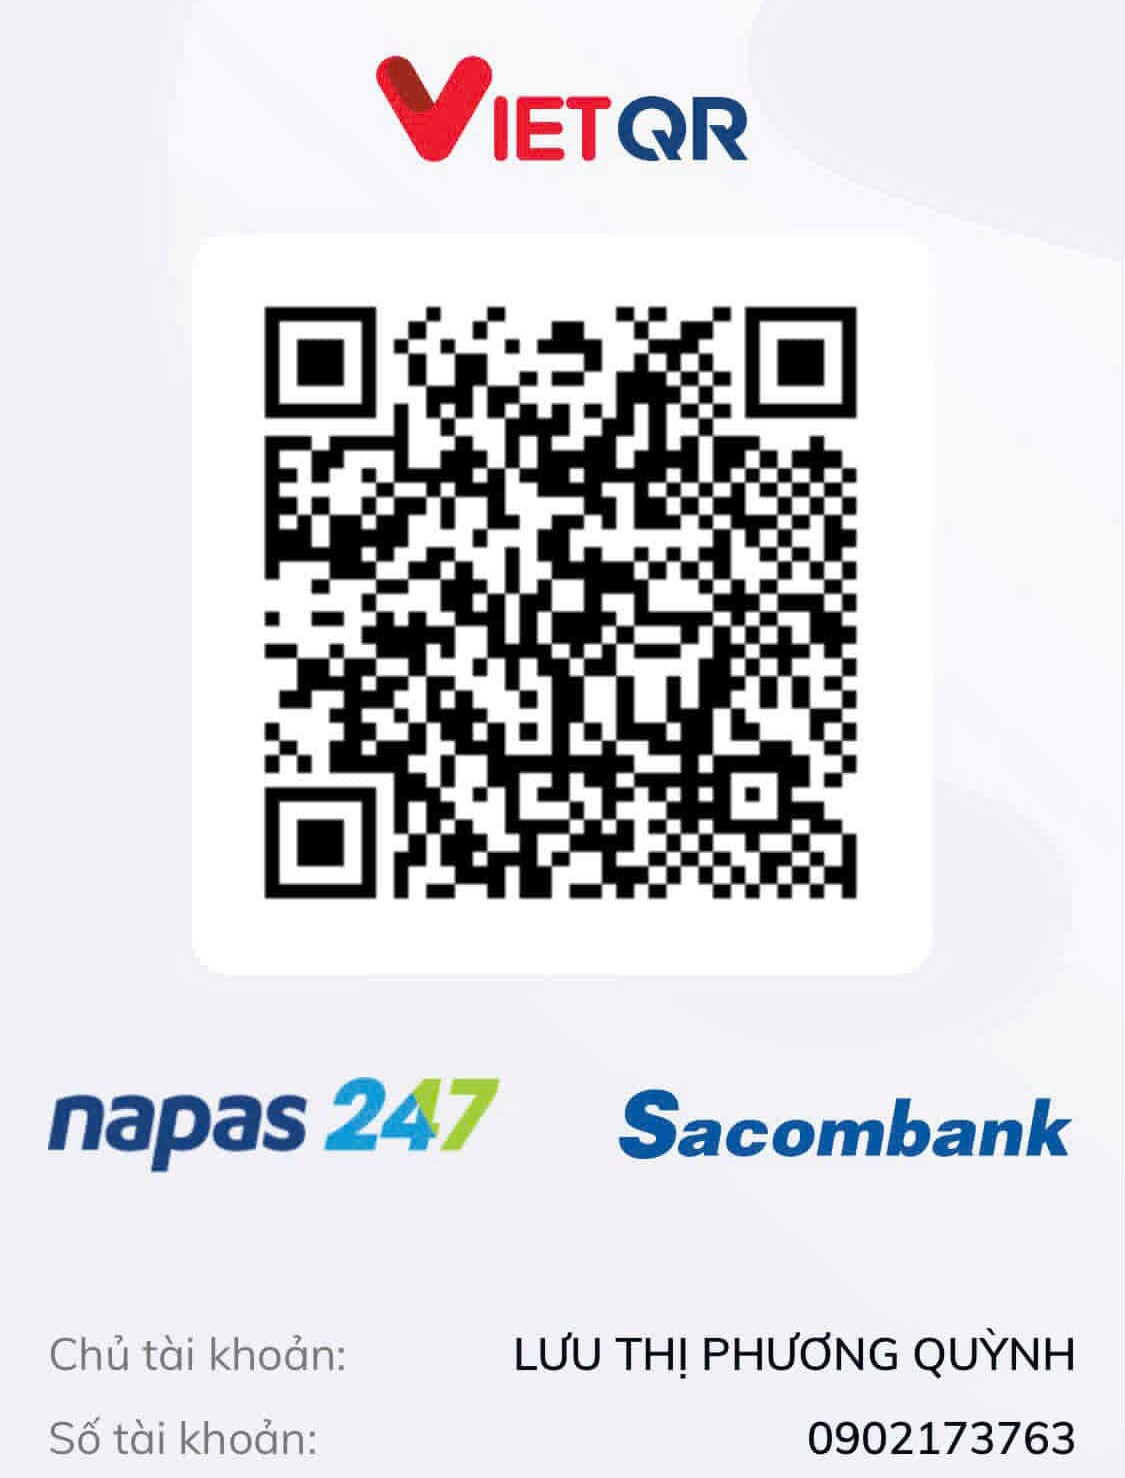
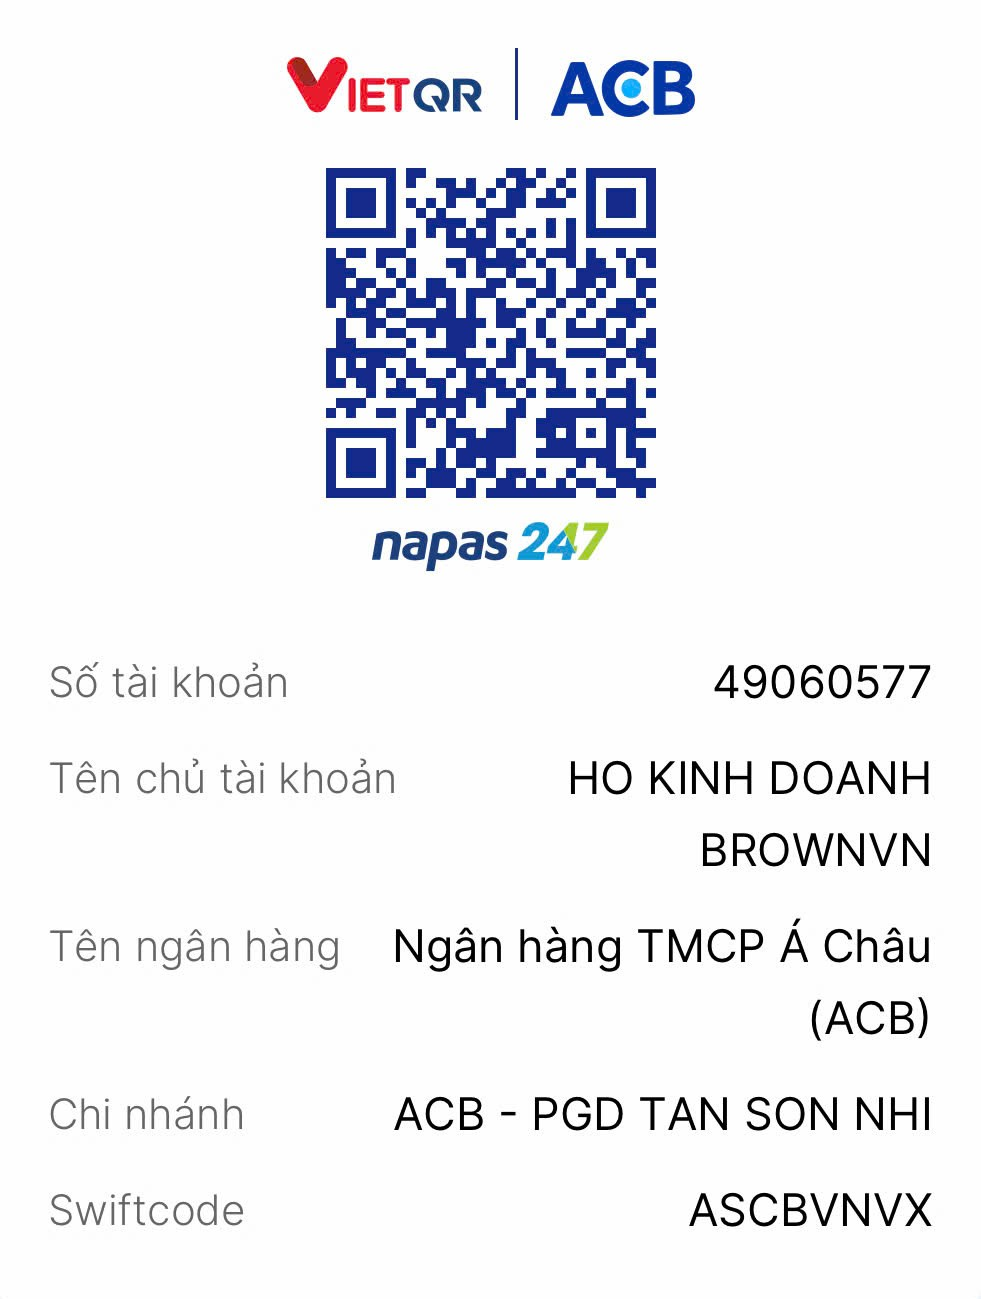
Cập nhật HKD

diff --git a/storefront/src/pages/Checkout.jsx b/storefront/src/pages/Checkout.jsx
@@ -9,12 +9,12 @@ import { useLanguage } from '../context/LanguageContext';
 import { formatPrice } from '../utils/currencyHelper';
 
 // --- CẤU HÌNH TÀI KHOẢN NHẬN TIỀN ---
-const MY_BANK = {
-  BANK_ID: 'SACOMBANK', 
-  ACCOUNT_NO: '0902173763', 
-  ACCOUNT_NAME: 'LUU THI PHUONG QUYNH', 
-  TEMPLATE: 'compact' 
-};
+// const MY_BANK = {
+//   BANK_ID: 'SACOMBANK', 
+//   ACCOUNT_NO: '0902173763', 
+//   ACCOUNT_NAME: 'LUU THI PHUONG QUYNH', 
+//   TEMPLATE: 'compact' 
+// };
 
 // CẤU HÌNH API GHN ĐỂ LẤY ĐỊA CHỈ CHUẨN
 const GHN_TOKEN = '7a83a4ad-f72f-11f0-835a-aa01149835ce'; 
@@ -194,7 +194,7 @@ const Checkout = () => {
 
   // QR Code Nội địa
   const transferContent = formData.phone ? `BROWN${formData.phone.replace(/\D/g, '')}` : '';
-  const qrUrl = `https://img.vietqr.io/image/${MY_BANK.BANK_ID}-${MY_BANK.ACCOUNT_NO}-${MY_BANK.TEMPLATE}.png?amount=${finalTotal}&addInfo=${transferContent}`;
+  //const qrUrl = `https://img.vietqr.io/image/${MY_BANK.BANK_ID}-${MY_BANK.ACCOUNT_NO}-${MY_BANK.TEMPLATE}.png?amount=${finalTotal}&addInfo=${transferContent}`;
 
   // =========================================================================
   // AUTO POLLING (Quét xem tiền vào chưa)
@@ -539,21 +539,17 @@ const Checkout = () => {
                                 {/*2. CHỌN KHU VỰC THANH TOÁN*/}
                                 {shippingType === 'international' ? (
                                     <div className="animate-fade-in">
-                                        {/* KHUNG HIỂN THỊ THÔNG TIN CHUYỂN KHOẢN QUỐC TẾ MỚI */}
+                                        {/* CẬP NHẬT: THÔNG TIN ACB CHO KHÁCH QUỐC TẾ */}
                                         <div className="bg-stone-50 border border-stone-200 p-5 rounded-lg text-sm leading-relaxed text-left text-stone-800 mb-6">
                                             <h3 className="font-bold text-base mb-4 border-b border-stone-200 pb-2 uppercase tracking-wider text-stone-900">
                                                 {lang === 'en' ? 'Bank Transfer Information' : 'Thông tin chuyển khoản'}
                                             </h3>
                                             <div className="space-y-2">
-                                                <p><strong className="text-stone-900 inline-block w-28">Name:</strong> Le Thi My Nhi</p>
-                                                <p><strong className="text-stone-900 inline-block w-28">Name bank:</strong> Techcombank</p>
-                                                <p><strong className="text-stone-900 inline-block w-28">Number:</strong> 19037727414020</p>
-                                                <p><strong className="text-stone-900 inline-block w-28">SWIFT CODE:</strong> VTCBVNVX</p>
-                                                <p><strong className="text-stone-900 inline-block w-28">Post code:</strong> 700000</p>
-                                                <p className="flex items-start">
-                                                    <strong className="text-stone-900 shrink-0 w-28">Address:</strong> 
-                                                    <span>15 Nguyen Xuan Khoat streets, Tan Son Nhi ward, Tan Phu District Ho Chi Minh City</span>
-                                                </p>
+                                                <p><strong className="text-stone-900 inline-block w-28">Name:</strong> HO KINH DOANH BROWNVN</p>
+                                                <p><strong className="text-stone-900 inline-block w-28">Bank Name:</strong> ACB (Asia Commercial Bank)</p>
+                                                <p><strong className="text-stone-900 inline-block w-28">Account No:</strong> 49060577</p>
+                                                <p><strong className="text-stone-900 inline-block w-28">Branch:</strong> PGD Tan Son Nhi</p>
+                                                <p><strong className="text-stone-900 inline-block w-28">SWIFT CODE:</strong> ASCBVNVX</p>
                                             </div>
                                         </div>
 
@@ -571,22 +567,27 @@ const Checkout = () => {
                                     <>
                                         {formData.phone ? (
                                             <div className="animate-fade-in mb-6">
-                                                <p className="text-sm text-stone-500 mb-4">{t('checkout.scan_qr')}</p>
+                                                <p className="text-sm text-stone-500 mb-4">{t('checkout.scan_qr') || 'Quét mã QR dưới đây để thanh toán:'}</p>
+                                                
+                                                {/* CẬP NHẬT: Ảnh tĩnh QR full width fit với khung */}
                                                 <div className="flex justify-center mb-4">
-                                                    <img src={qrUrl} alt="VietQR" className="w-56 h-56 object-contain border border-stone-200 rounded-lg" />
+                                                    <img src="/QR.jpg" alt="ACB QR Code" className="w-full object-contain border border-stone-200 rounded-lg shadow-sm" />
+                                                </div>
+
+                                                {/* Bổ sung text ngân hàng rõ ràng cho khách dễ copy */}
+                                                <div className="bg-blue-50 p-3 rounded-lg text-sm text-blue-900 border border-blue-100 text-left space-y-1 mb-4">
+                                                    <p><strong>Ngân hàng:</strong> ACB (Ngân hàng TMCP Á Châu)</p>
+                                                    <p><strong>Số tài khoản:</strong> 49060577</p>
+                                                    <p><strong>Chủ tài khoản:</strong> HO KINH DOANH BROWNVN</p>
+                                                    <p><strong>Chi nhánh:</strong> PGD Tân Sơn Nhì</p>
                                                 </div>
                                             </div>
                                         ) : (
                                             <div className="h-48 flex flex-col items-center justify-center bg-stone-50 rounded text-stone-400 mb-6 animate-fade-in">
                                                 <FaExclamationCircle className="text-2xl mb-2"/>
-                                                <span>{t('checkout.qr_notice')}</span>
+                                                <span>{t('checkout.qr_notice') || 'Vui lòng nhập số điện thoại để xem mã chuyển khoản'}</span>
                                             </div>
                                         )}
-
-                                        <div className="flex justify-between text-xs mt-2 mb-4 pt-2 border-t border-stone-200 border-dashed">
-                                            <span className="text-stone-500">{t('checkout.bank_transfer_content')}:</span>
-                                            <span className="font-medium text-blue-600">{transferContent}</span>
-                                        </div>
 
                                         {/* KHUNG TRẠNG THÁI THANH TOÁN (Auto/Manual) */}
                                         <div className={`border p-3 rounded mb-4 text-left transition-colors ${isTransferConfirmed ? 'bg-green-50 border-green-400' : 'bg-blue-50 border-blue-200'}`}>

diff --git a/storefront/src/pages/admin/Orders.jsx b/storefront/src/pages/admin/Orders.jsx
@@ -1,7 +1,7 @@
 import { useState, useEffect } from 'react';
 import axios from 'axios';
-// [CHỈNH SỬA] Import thêm FaEdit, FaSave
-import { FaFileExcel, FaEye, FaBox, FaShippingFast, FaCheckCircle, FaTimesCircle, FaUndo, FaSearch, FaExclamationTriangle, FaMotorcycle, FaCheckSquare, FaEdit, FaSave } from 'react-icons/fa';
+// [CHỈNH SỬA] Import thêm FaEdit, FaSave, FaDownload
+import { FaFileExcel, FaEye, FaBox, FaShippingFast, FaCheckCircle, FaTimesCircle, FaUndo, FaSearch, FaExclamationTriangle, FaMotorcycle, FaCheckSquare, FaEdit, FaSave, FaDownload } from 'react-icons/fa';
 import { toast } from 'react-toastify';
 import { ORDER_STATUS_MAP } from '../../utils/translations';
 
@@ -228,6 +228,34 @@ const [exportDates, setExportDates] = useState({ start: '', end: '' });
         }
     };
 
+    // [MỚI] Hàm xuất Excel chạy chung API gốc, gọi API truyền param ids
+    const handleExportSelectedSapo = async () => {
+        if (selectedIds.length === 0) return toast.warning("Vui lòng chọn ít nhất 1 đơn hàng để xuất!");
+        
+        const toastId = toast.loading("Đang xuất file Excel...");
+        try {
+            const query = new URLSearchParams();
+            query.append('ids', selectedIds.join(','));
+            
+            const response = await fetch(`${import.meta.env.VITE_API_URL}/api/orders/export/sapo?${query.toString()}`);
+            if (!response.ok) throw new Error('Lỗi xuất file');
+            
+            const blob = await response.blob();
+            const url = window.URL.createObjectURL(new Blob([blob]));
+            const link = document.createElement('a');
+            link.href = url;
+            link.setAttribute('download', `Sapo_Selected_Export_${new Date().toISOString().slice(0,10)}.xlsx`);
+            document.body.appendChild(link);
+            link.click();
+            link.parentNode.removeChild(link);
+            
+            toast.update(toastId, { render: `Đã xuất ${selectedIds.length} đơn hàng!`, type: "success", isLoading: false, autoClose: 3000 });
+        } catch (error) {
+            console.error(error);
+            toast.update(toastId, { render: "Không thể xuất file Excel", type: "error", isLoading: false, autoClose: 3000 });
+        }
+    };
+
   return (
     <div className="p-4 md:p-8 relative min-h-screen">
       <div className="flex flex-col md:flex-row justify-between items-start md:items-center mb-6 gap-4">
@@ -246,6 +274,17 @@ const [exportDates, setExportDates] = useState({ start: '', end: '' });
                     />
                 </div>
             </div>
+            
+            {/* [MỚI] Nút XUẤT CHỌN chỉ hiện khi đã chọn đơn hàng */}
+            {selectedIds.length > 0 && (
+                <button 
+                    onClick={handleExportSelectedSapo}
+                    className="flex items-center justify-center gap-2 bg-blue-600 hover:bg-blue-700 text-white px-4 py-3 rounded-lg shadow-sm font-bold text-sm shrink-0"
+                >
+                    <FaDownload size={16} /> <span className="hidden md:inline">Xuất chọn ({selectedIds.length})</span>
+                </button>
+            )}
+
             <button 
                 onClick={() => setShowExportModal(true)}
                 className="flex items-center justify-center gap-2 bg-green-600 hover:bg-green-700 text-white px-4 py-3 rounded-lg shadow-sm font-bold text-sm shrink-0"

diff --git a/server/controllers/orderController.js b/server/controllers/orderController.js
@@ -783,34 +783,25 @@ exports.updateOrderDetails = async (req, res) => {
 };
 
 // [MỚI] XUẤT EXCEL ĐƠN HÀNG THEO CHUẨN SAPO
+// [MỚI] XUẤT EXCEL ĐƠN HÀNG THEO CHUẨN SAPO
 exports.exportOrdersToSapoExcel = async (req, res) => {
     try {
-        const { startDate, endDate } = req.query;
+        // [CẬP NHẬT Ở ĐÂY]: Nhận thêm biến ids từ query URL
+        const { startDate, endDate, ids } = req.query;
 
-        // [ĐÃ SỬA] Hàm làm sạch, định dạng và LỌC chuẩn số điện thoại Việt Nam
+        // Hàm làm sạch, định dạng và LỌC chuẩn số điện thoại Việt Nam
         const formatSapoPhone = (phone) => {
             if (!phone) return null;
-            
-            // 1. Xóa tất cả các ký tự không phải là số (khoảng trắng, dấu +, -, .)
             let cleaned = phone.toString().replace(/\D/g, '');
-            
-            // 2. Chuyển đổi mã vùng 84 thành đầu số 0
             if (cleaned.startsWith('84')) {
                 cleaned = '0' + cleaned.slice(2);
-            } 
-            // Nếu chưa có số 0 ở đầu thì thêm vào (đề phòng Excel nuốt số 0)
-            else if (!cleaned.startsWith('0')) {
+            } else if (!cleaned.startsWith('0')) {
                 cleaned = '0' + cleaned;
             }
-            
-            // 3. Kiểm tra xem có đúng định dạng SĐT Việt Nam không (10 số, đầu 03, 05, 07, 08, 09)
             const vnPhoneRegex = /^0[35789]\d{8}$/;
-            
             if (vnPhoneRegex.test(cleaned)) {
-                return cleaned; // Nếu chuẩn VN thì lấy
+                return cleaned; 
             }
-            
-            // Nếu không chuẩn VN (SĐT nước ngoài, bị thiếu/dư số) -> Bỏ qua (trả về null)
             return null;
         };
 
@@ -830,14 +821,25 @@ exports.exportOrdersToSapoExcel = async (req, res) => {
             `)
             .order('created_at', { ascending: true }); // Sắp xếp cũ đến mới
 
-        if (startDate) {
-            query = query.gte('created_at', startDate);
+        // =======================================================
+        // [LOGIC MỚI BỔ SUNG]: LỌC DỮ LIỆU TRƯỚC KHI XUẤT
+        // =======================================================
+        if (ids) {
+            // Trường hợp 1: Nếu Frontend truyền danh sách ID (Xuất các đơn đã chọn)
+            const idArray = ids.split(',').map(id => id.trim());
+            query = query.in('id', idArray);
+        } else {
+            // Trường hợp 2: Nếu không có ID, lọc theo ngày tháng (Xuất tất cả hoặc theo mốc thời gian)
+            if (startDate) {
+                query = query.gte('created_at', startDate);
+            }
+            if (endDate) {
+                const end = new Date(endDate);
+                end.setHours(23, 59, 59, 999);
+                query = query.lte('created_at', end.toISOString());
+            }
         }
-        if (endDate) {
-            const end = new Date(endDate);
-            end.setHours(23, 59, 59, 999);
-            query = query.lte('created_at', end.toISOString());
-        }
+        // =======================================================
 
         const { data: orders, error } = await query;
         if (error) throw error;

diff --git a/storefront/src/App.jsx b/storefront/src/App.jsx
@@ -94,7 +94,11 @@ const StorefrontLayout = () => {
           <div className="max-w-7xl mx-auto px-6 grid grid-cols-1 md:grid-cols-3 gap-8 text-sm">
              <div>
                 <h3 className="font-serif text-lg font-bold mb-4 uppercase tracking-widest">{t('footer.about')}</h3>
-                <p className="text-stone-400 leading-relaxed">{t('footer.desc')}</p>
+                {/* <p className="text-stone-400 leading-relaxed">{t('footer.desc')}</p> */}
+                <p className="text-stone-300 font-bold uppercase text-sm">Hộ Kinh Doanh BROWNVN</p>
+                    <p className="text-stone-400 text-xs mt-1">Mã số HKD: 089300017764</p>
+                    <p className="text-stone-400 text-xs">Cấp ngày: 11/03/2026</p>
+                    <p className="text-stone-400 text-xs">Nơi cấp: UBND Phường Tân Sơn Nhì</p>
              </div>
              <div>
                 <h3 className="font-serif text-lg font-bold mb-4 uppercase tracking-widest">{t('footer.contact')}</h3>
